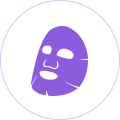
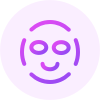
HGYH-571 替换图标

diff --git a/src/app/view/mine/balanceLog.ts b/src/app/view/mine/balanceLog.ts
@@ -14,7 +14,8 @@ const Status = [
     '申请中',
     '处理中',
     '提现成功',
-    '提现失败'
+    '提现失败',
+    '处理中'
 ];
 
 /**
@@ -47,25 +48,22 @@ export class BalanceLog extends Widget {
                 const list = r.value.map((item,index) => {
                     // 提现记录需要获取进度
                     if (item[1] === CashLogType.withdraw) {
+                        const i = index;  
                         getWithdrawStatus(item[3]).then(res => {
                             if (res.value[3] === 3) {  // 拒绝提现显示理由
-                                this.props.list[index].status = `提现失败：${unicode2Str(res.value[6])}`;
+                                this.props.list[i].status = `提现失败：${unicode2Str(res.value[6])}`;
                             } else {
-                                this.props.list[index].status = Status[res.value[3]];
+                                this.props.list[i].status = Status[res.value[3]];
                             }
                             this.paint();
                         });
                     }
 
-                    // 充值购物记录隐藏
-                    if (item[1] === CashLogType.recharge || item[1] === CashLogType.shopping) {  
+                    // 充值 购物 升级海宝付钱 记录隐藏
+                    if (item[1] === CashLogType.recharge || item[1] === CashLogType.shopping || (item[1] === CashLogType.upHbao && item[2] < 0)) {  
                         return null;
 
                     } else {
-                        if (item[1] === CashLogType.upHbao && item[2] < 0) { // 升级海宝付钱记录隐藏
-                            return null;  
-                        }
-
                         return {
                             name: getCashLogName(item[1]), 
                             time: timestampFormat(item[4], 4),
@@ -76,7 +74,7 @@ export class BalanceLog extends Widget {
 
                 });
 
-                this.props.list = list.filter(r => !!r);
+                this.props.list = list;
             } else {
                 this.props.list = [];
             }

diff --git a/src/app/view/member/home/home.ts b/src/app/view/member/home/home.ts
@@ -5,8 +5,8 @@ import { Widget } from '../../../../pi/widget/widget';
 import { whiteGoodsId_399A, whiteGoodsId_399B } from '../../../config';
 import { getAllGifts, getEarningTotal, getInviteCode, getUserInfo } from '../../../net/pull';
 import { register, setStore, UserType } from '../../../store/memstore';
-import { applyToUpHwang, getUserTypeShow, payToUpHbao } from '../../../utils/logic';
-import { copyToClipboard, popNewMessage, priceFormat } from '../../../utils/tools';
+import { applyToUpHwang, getUserTypeShow } from '../../../utils/logic';
+import { copyToClipboard, popNewMessage } from '../../../utils/tools';
 import { confirmActivityGoods } from '../giftPage';
 import { hBaoPower, hWangPower } from '../powerConstant';
 

diff --git a/src/app/view/returnGoods/applyReturnGoods.ts b/src/app/view/returnGoods/applyReturnGoods.ts
@@ -63,7 +63,7 @@ export class ApplyReturnGoods extends Widget {
                             popNewMessage('图片上传成功');
                             console.log('图片上传成功',res);
                             this1.props.imgs.pop();
-                            this1.props.imgs.push(serverFilePath + res);
+                            this1.props.imgs.push(serverFilePath + res.sid);
                             this1.props.isUpload = false;
                             this1.paint();
                         });
